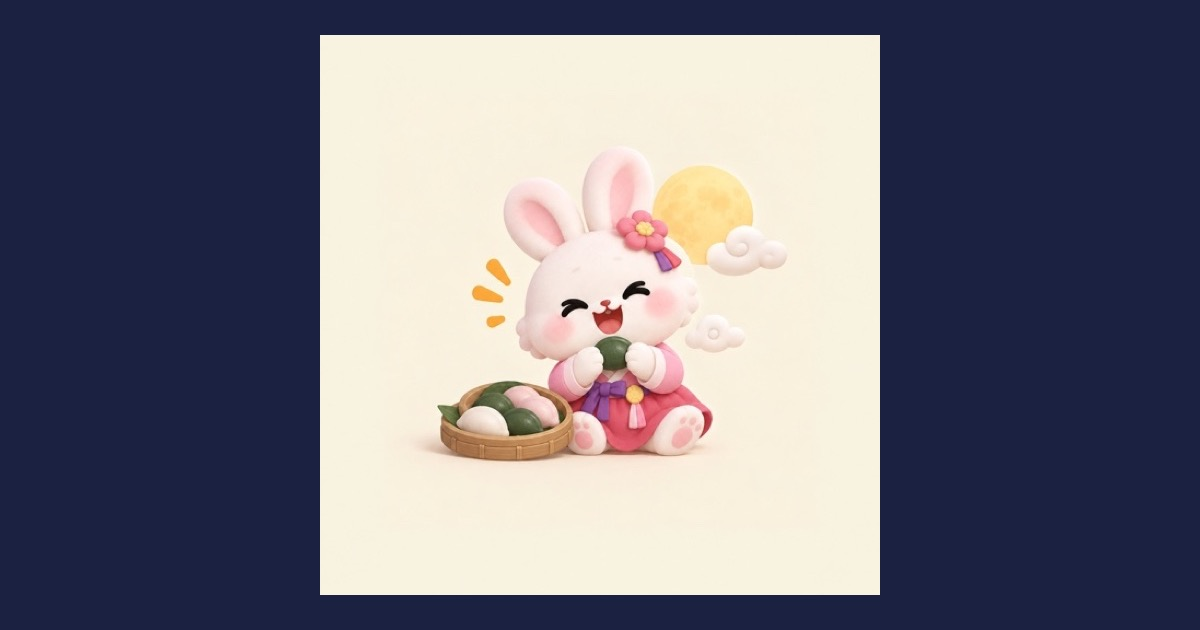
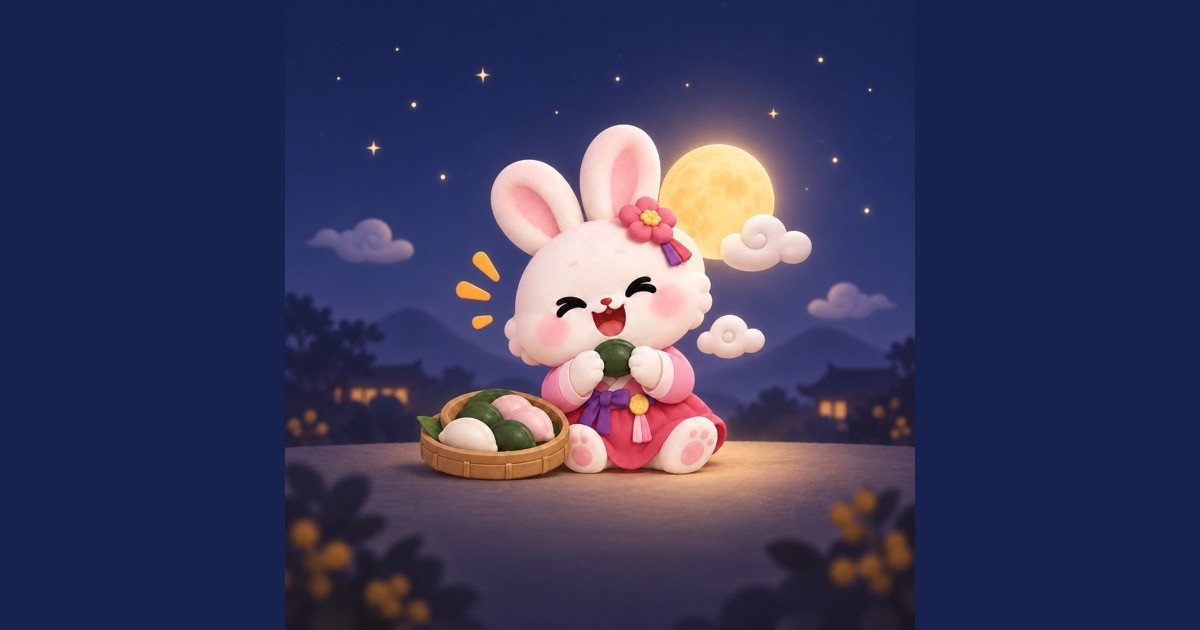
feat(chuseok): 랜딩·배너를 밤하늘 송편토끼 이미지로, 관리자 추첨 패널 제거 (별도 도구 예정)

diff --git a/src/styles/chuseok.css b/src/styles/chuseok.css
@@ -109,8 +109,8 @@ html:has(.chuseok-body) { background: var(--ch-bg); }
 }
 .ch-illust svg, .ch-illust-img { position: relative; animation: ch-float 4s ease-in-out infinite; }
 .ch-illust-img {
-  width: 230px; height: 230px; display: block; object-fit: cover; border-radius: 999px;
-  background: var(--ch-surface); box-shadow: 0 10px 0 var(--ch-gold-deep), 0 0 0 6px var(--ch-gold);
+  width: 250px; height: 250px; display: block; object-fit: cover; border-radius: 999px;
+  background: var(--ch-bg); box-shadow: 0 0 0 5px var(--ch-gold), 0 14px 40px rgba(244, 200, 106, 0.25);
 }
 
 /* ── 메타 카드 3개 ───────────────────── */
